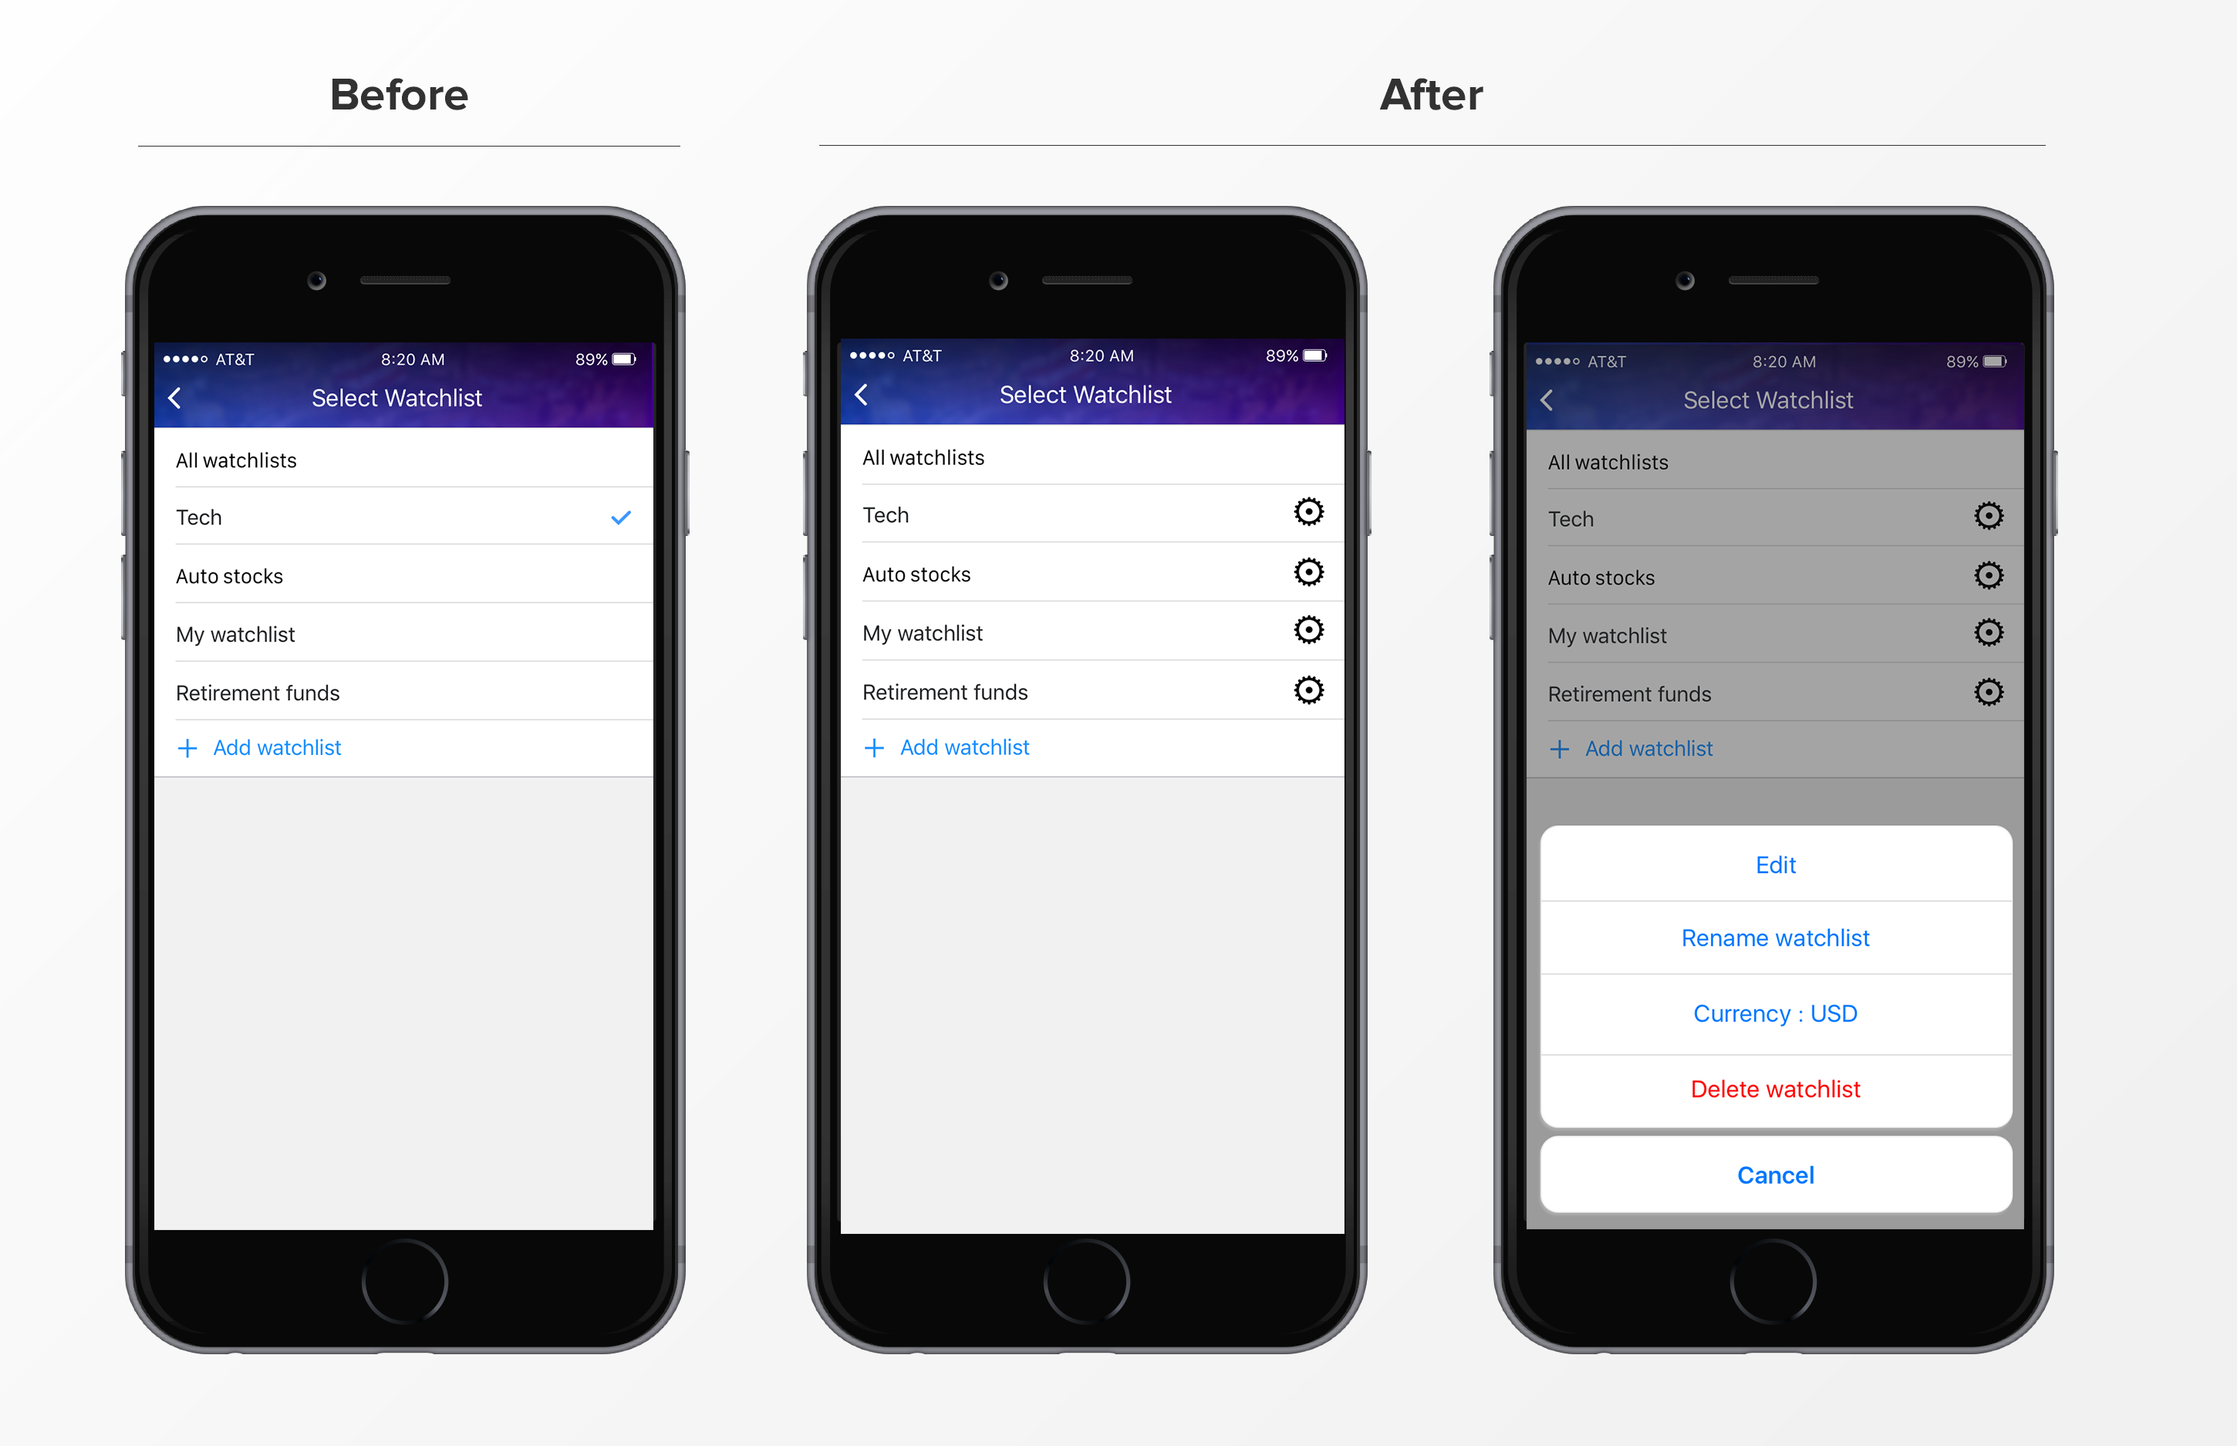
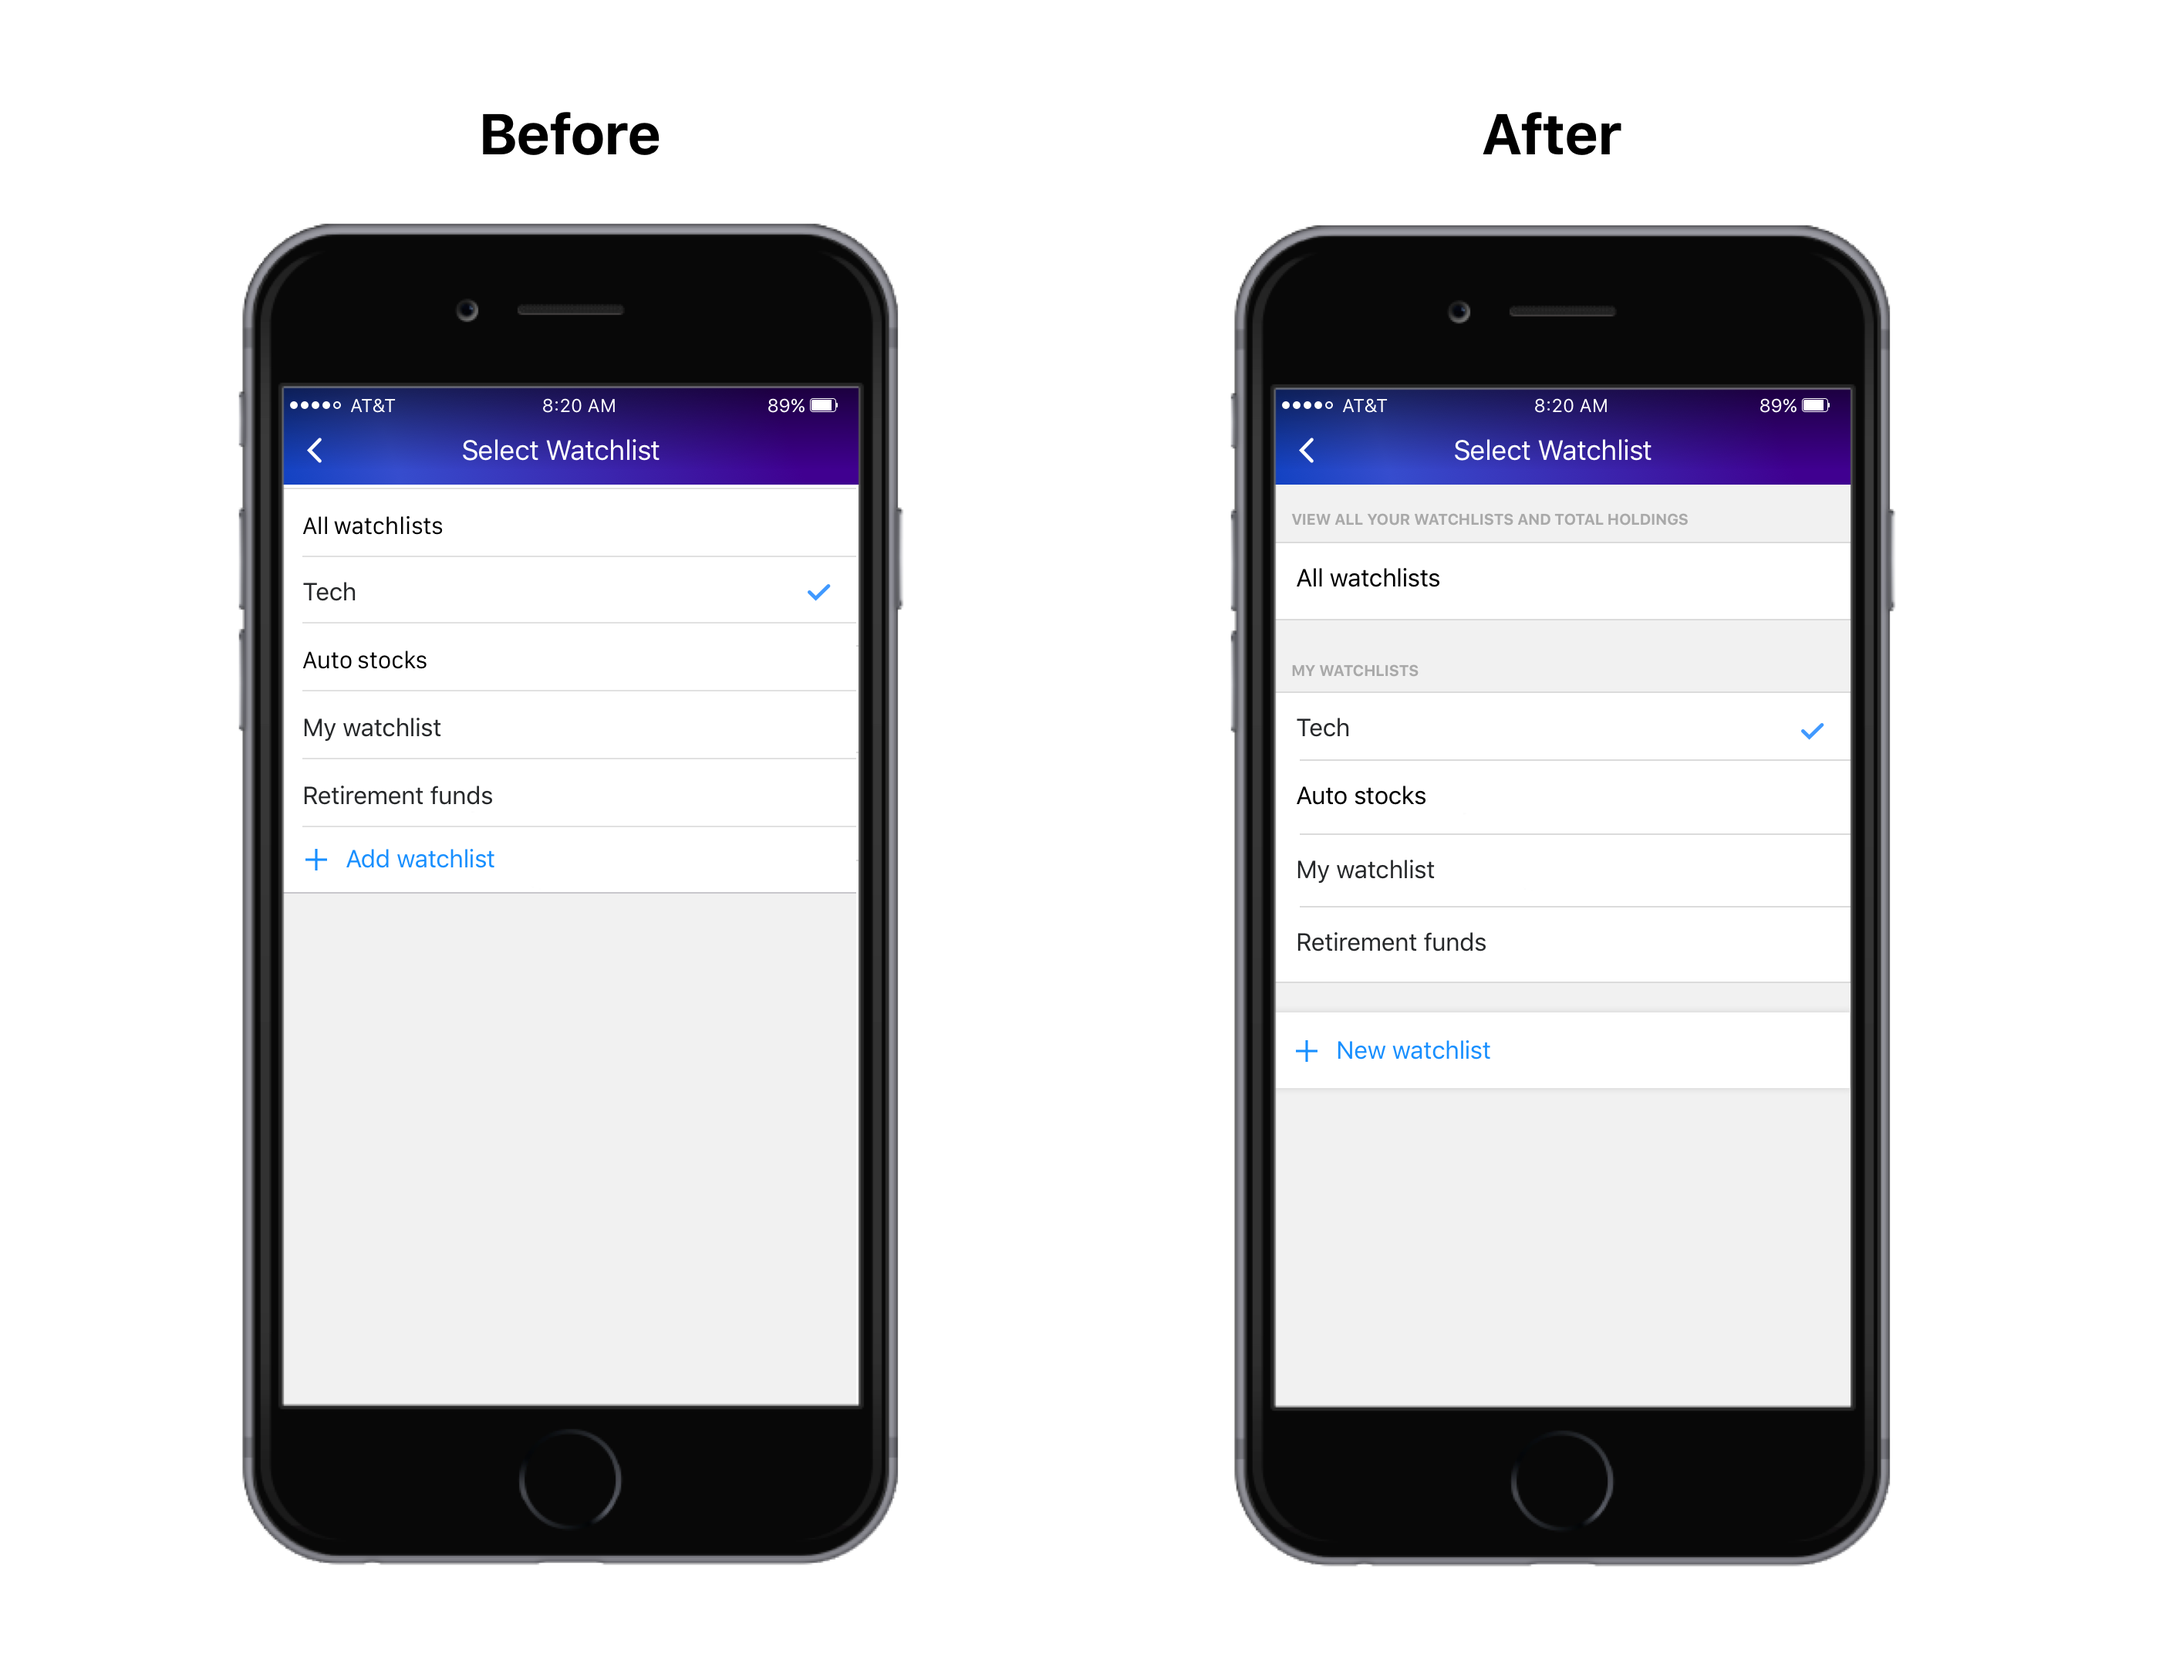
updating user research

diff --git a/finance.html b/finance.html
@@ -71,11 +71,11 @@
             <img class="responsive-image" src="images/finance/hero-specs.png"/>
             
             <h1>Usability Testing</h1>
-            <p>Problem: Users had trouble editing their watchlists. Solution: We decided to add the settings in the watchlist selector. Users kept going there to see if they could delete/add/reorder their watchlists. This is the before and after comparison mock.</p>
+            <p>Problem: Users did not see the ability to view 'All Watchlists'. Solution: We tried a different UI treatment to make 'All Watchlist' different from the rest of the user-created watchlists. This is the before and after comparison mock.</p>
             <img class="responsive-image" src="images/finance/selector-study.png"/>
+            <p>Problem: Users had trouble editing their watchlists. Solution: We decided to add the settings in the watchlist selector. Users kept going there to see if they could delete/add/reorder their watchlists. This is the before and after comparison mock.</p>
+            <img class="responsive-image" src="images/finance/selector-study2.png"/>
             <img class="responsive-image" src="images/finance/study.png"/>
-<!--             <div class="placeholder"><h3>Side bar navigation: prod vs fuji</h3></div>
-            <p>Problem: Whenever a user gets lost, they go to the sidebar. However the sidebar we had was not useful even though we had the bottom tab. Solution: We decided the bottom tab was not enough and so we redesigned sidebar to integrate other ways to navigate to other pages. After we improved this, users had a better time seeing the overview of the app. This is the before and after comparison mock.</p> -->
             <h1>iOS</h1>
             <img class="responsive-image" src="images/finance/ios1.png"/>
             <img class="responsive-image" src="images/finance/ios2.gif"/>
